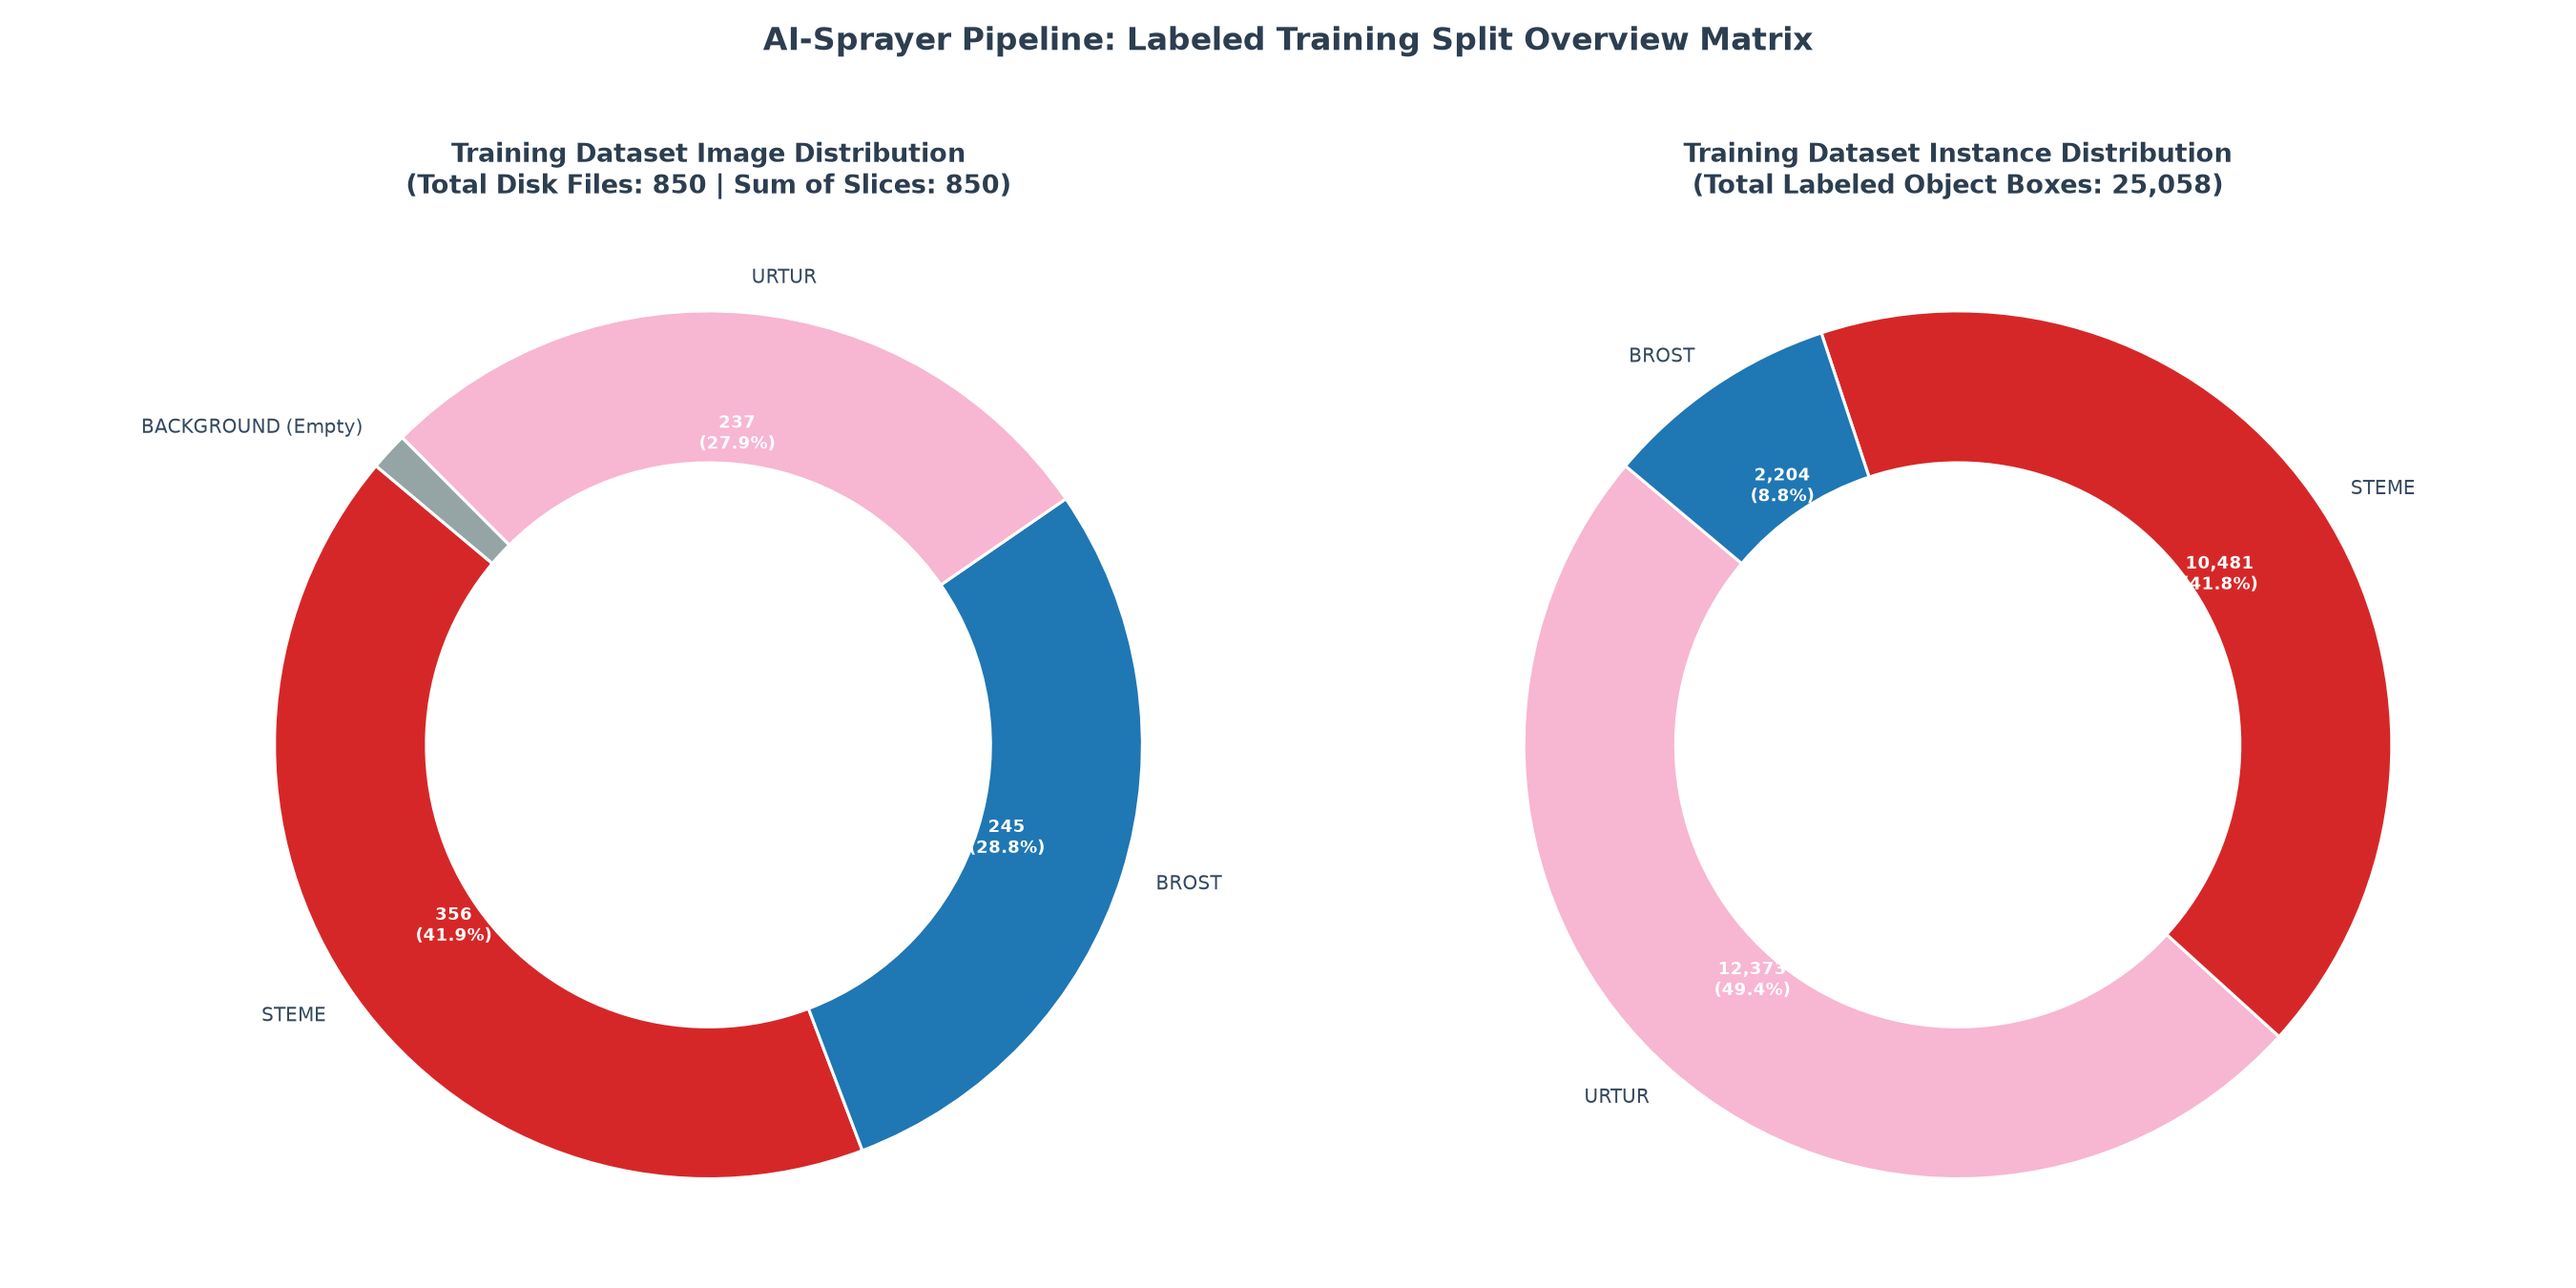
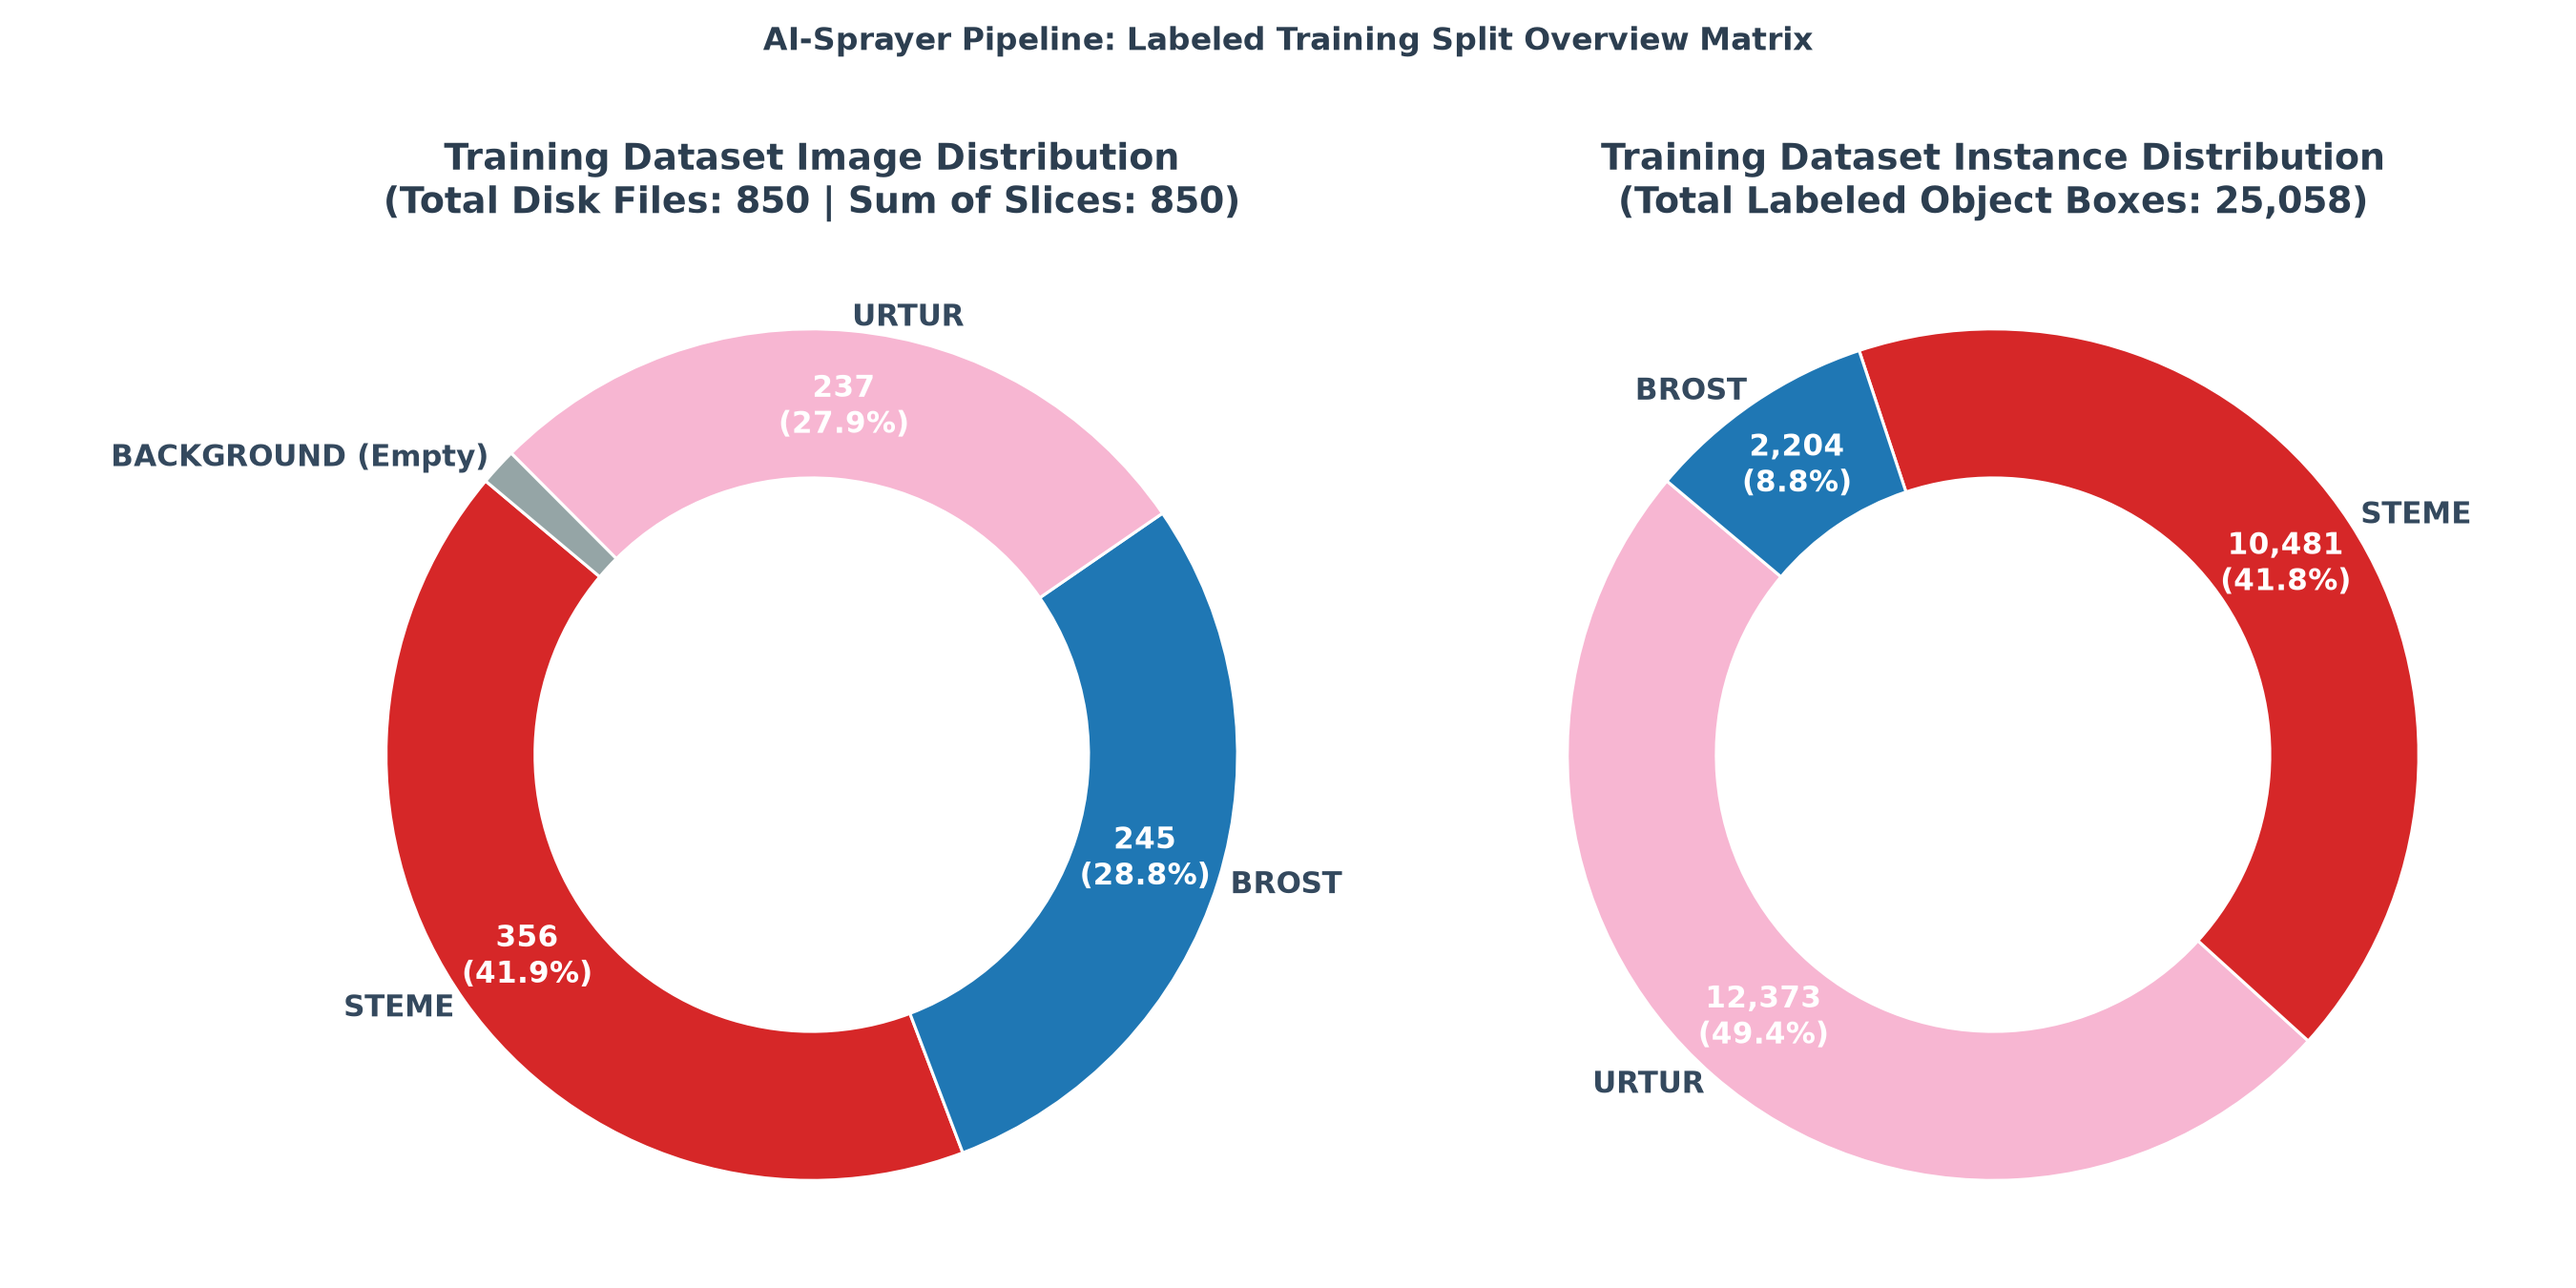
update class distribution code

diff --git a/vision_system/src/analyze_class_distribution.py b/vision_system/src/analyze_class_distribution.py
@@ -33,6 +33,7 @@ def load_class_names() -> tuple[dict, dict]:
 
 def resolve_train_label_dir(data_cfg: dict) -> Path:
     dataset_root = (DATA_YAML_PATH.parent / data_cfg["path"]).resolve()
+    # split_rel_path = data_cfg.get("train", "images/train")
     split_rel_path = data_cfg.get("train", "images/train")
     img_dir = (dataset_root / split_rel_path).resolve()
     
@@ -130,12 +131,12 @@ def save_dual_distribution_donuts(label_dir: Path, image_counts: Counter, instan
         autopct=make_autopct_with_values(total_imgs_sum),
         startangle=140,
         colors=img_colors,
-        pctdistance=0.72,
-        labeldistance=1.08,
+        pctdistance=0.82,
+        labeldistance=1.03,
         wedgeprops=dict(width=0.35, edgecolor='w', linewidth=1.5)
     )
     ax1.set_title(f"Training Dataset Image Distribution\n(Total Disk Files: {actual_total_files:,} | Sum of Slices: {total_imgs_sum:,})", 
-                  fontsize=13, weight='bold', pad=15, color='#2c3e50')
+                  fontsize=18, weight='bold', pad=15, color='#2c3e50')
     ax1.axis('equal')
 
     # ─── RIGHT SUBPLOT: INSTANCE DISTRIBUTION (Objects Only) ────────────────
@@ -152,22 +153,23 @@ def save_dual_distribution_donuts(label_dir: Path, image_counts: Counter, instan
         autopct=make_autopct_with_values(total_inst_sum),
         startangle=140,
         colors=inst_colors,
-        pctdistance=0.72,
-        labeldistance=1.08,
+        pctdistance=0.82,
+        labeldistance=1.03,
         wedgeprops=dict(width=0.35, edgecolor='w', linewidth=1.5)
     )
     ax2.set_title(f"Training Dataset Instance Distribution\n(Total Labeled Object Boxes: {total_inst_sum:,})", 
-                  fontsize=13, weight='bold', pad=15, color='#2c3e50')
+                  fontsize=18, weight='bold', pad=15, color='#2c3e50')
     ax2.axis('equal')
 
     # ─── STYLING & AESTHETICS ───────────────────────────────────────────────
     for t in texts1 + texts2:
         t.set_color('#34495e')
-        t.set_fontsize(9.5)
+        t.set_weight('bold')
+        t.set_fontsize(15)
     for at in autotexts1 + autotexts2:
         at.set_color('white')
         at.set_weight('bold')
-        at.set_fontsize(8.5)
+        at.set_fontsize(15)
 
     plt.suptitle("AI-Sprayer Pipeline: Labeled Training Split Overview Matrix", 
                  fontsize=16, weight='bold', y=0.98, color='#2c3e50')
